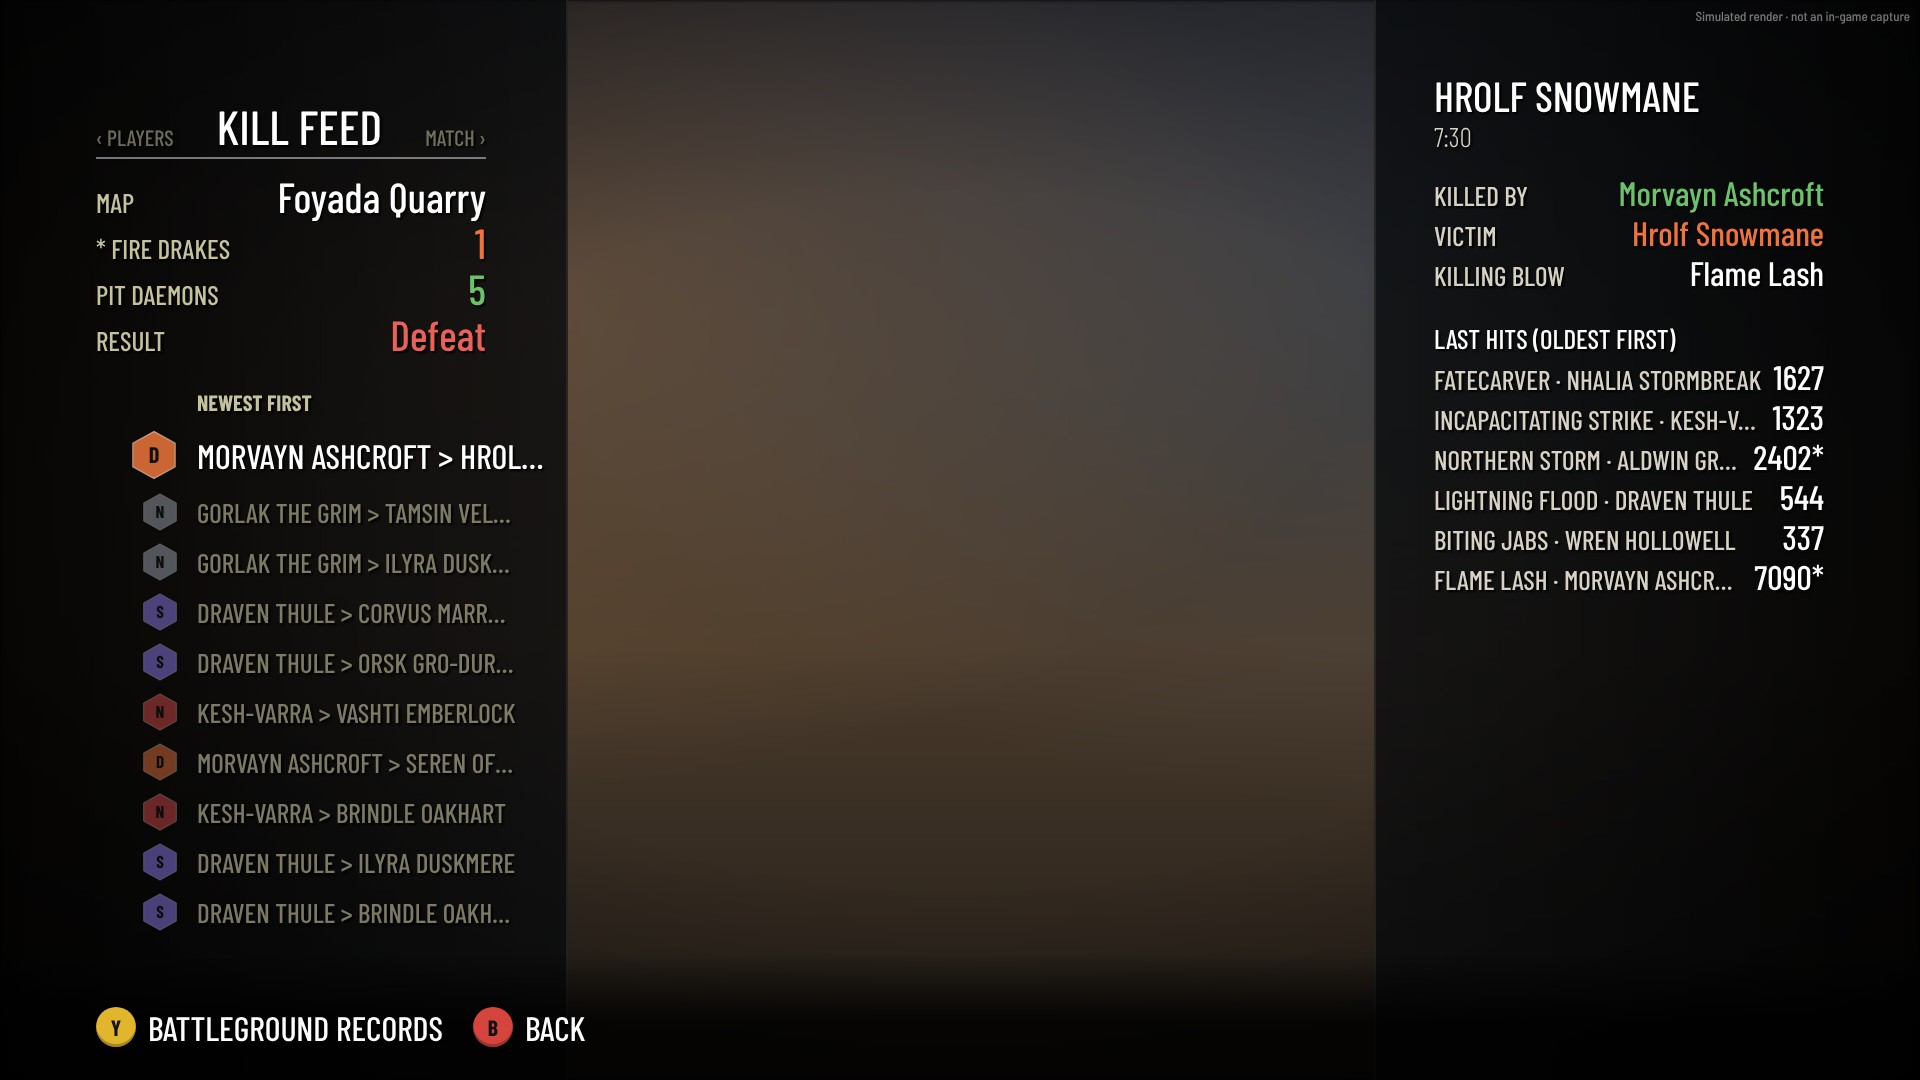
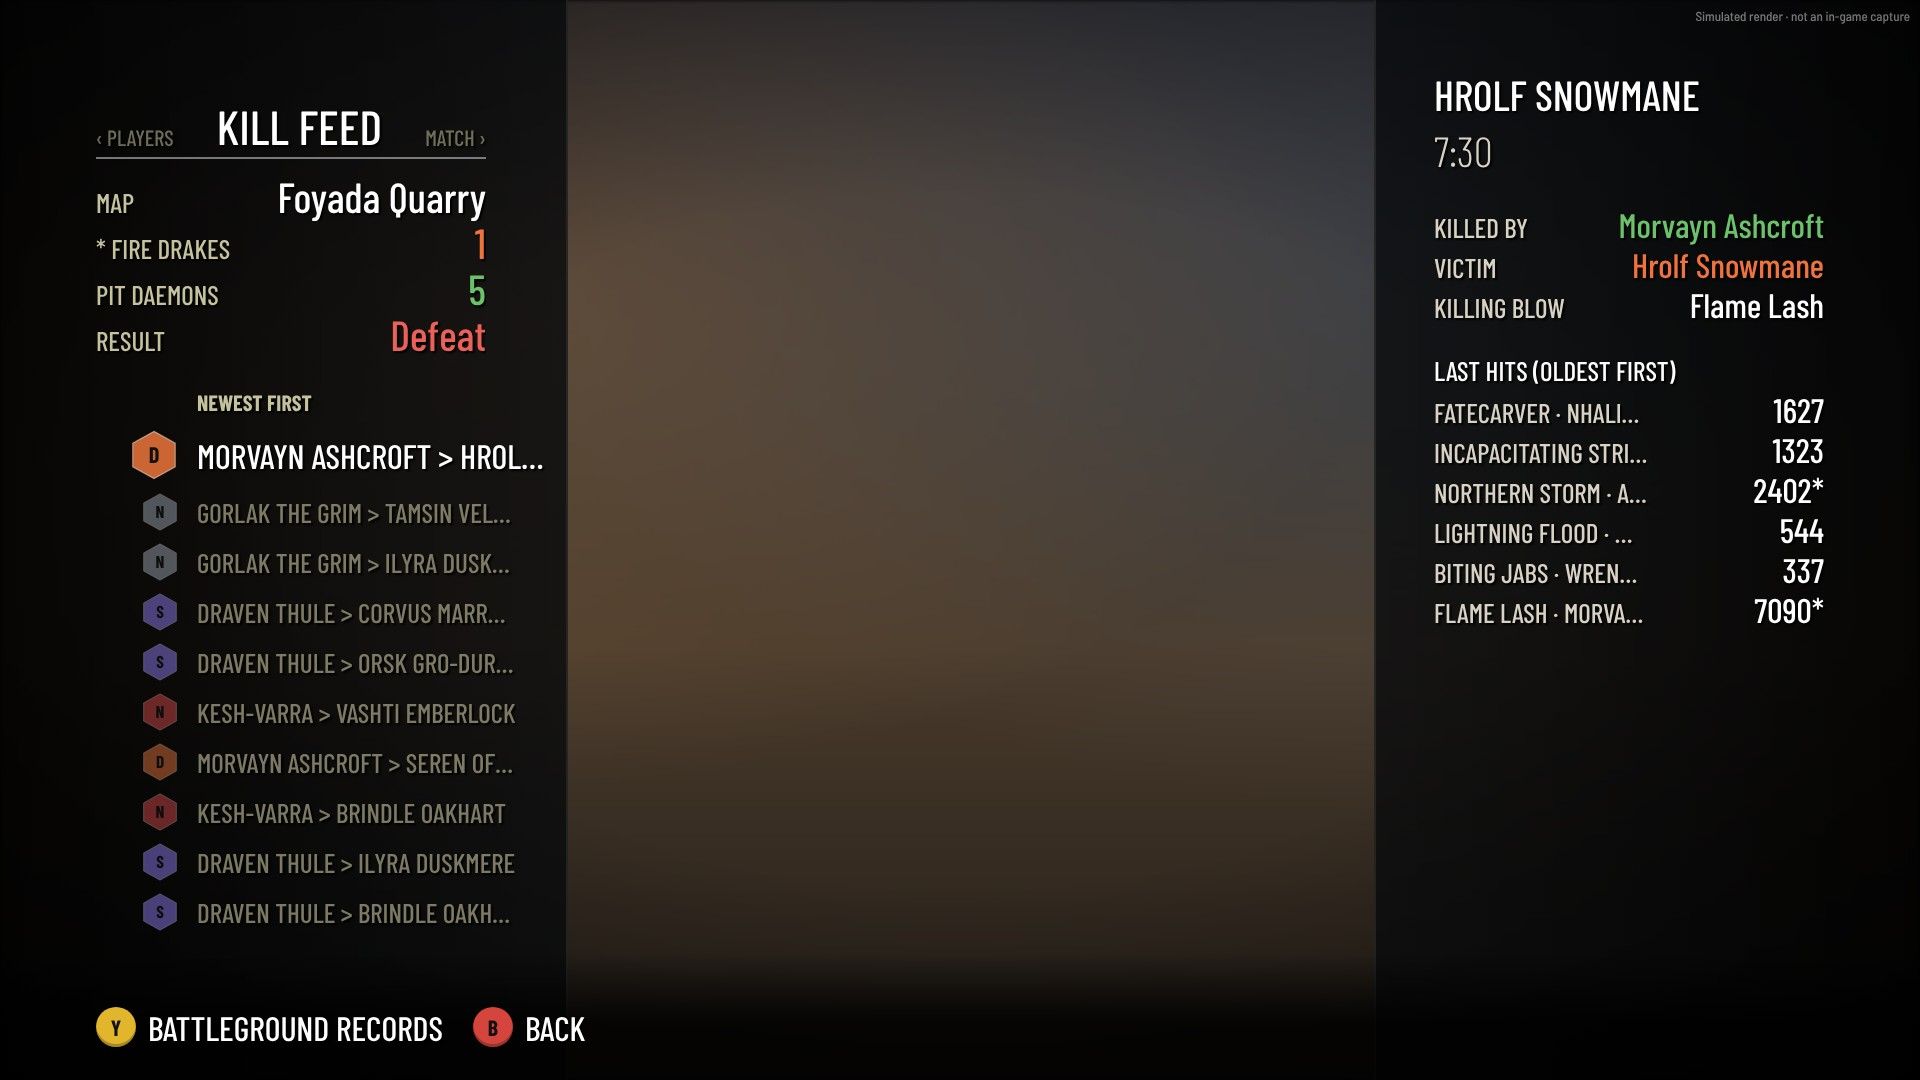
Keep console tooltips on screen
ESO sizes a tooltip line or stat/value pair to its text unless its style
gives it a width, so long rows ran past the right edge of the screen. All
tooltip rows now use the fullWidth style (lines wrap, values right-align and
wrap), long labels are split or shortened, and the renderer follows ESO's
sizing rules and warns about overflow.

Claude-Session: https://claude.ai/code/session_01DQVQLHZ3FZwfm2nCUdtVnP

Changed region(s): [[0.75, 0.1222, 0.9688, 0.5806], [0.8438, 0.1528, 0.9688, 0.3056], [0.8125, 0.0611, 0.8438, 0.0917]]

diff --git a/tools/render.js b/tools/render.js
@@ -313,30 +313,37 @@ function pageMain(screen, native, FONTS, FACES) {
       add(`<div style="position:absolute;left:197px;top:${yy}px;width:${sel ? 360 : 320}px;height:${hh}px;display:flex;align-items:center;font:500 ${size}px ${FC};color:${sel ? "#fff" : "rgba(197,194,158,.62)"};text-transform:uppercase;${shadow}"><span style="white-space:nowrap;overflow:hidden;text-overflow:ellipsis">${markup(r.e.text)}</span></div>`);
       yy += hh;
     }
-    // GAMEPAD_RIGHT_TOOLTIP in quadrant 4
-    let ty = 70;
-    const tx = 1434, tw = 390;
+    // GAMEPAD_RIGHT_TOOLTIP in quadrant 4, sized the way ZO_Tooltip sizes things:
+    //   * a line or stat / value pair WITH fullWidth (widthPercent 100) gets the tooltip's
+    //     width; lines wrap, and a pair's value gets width - stat - 5 and wraps
+    //   * WITHOUT a width, it is as wide as its text and never wraps or truncates, so it
+    //     can run past the tooltip (and the screen) edge, exactly like in game
+    //   * a value is anchored 5 px after its stat (ZO_TooltipStatValuePair:SetValue);
+    //     it is only right-aligned when its style says horizontalAlignment = RIGHT
+    const tx = 1434, tw = 390, ttop = 70, tbottom = 1080 - 140;
+    const has = (list, name) => (list || []).includes(name);
+    let tip = `<div data-sbr-tip style="position:absolute;left:${tx}px;top:${ttop}px;width:${tw}px;height:${tbottom - ttop}px;clip-path:inset(0 -2000px 0 -2000px);${shadow}">`;
     for (const sec of c.tooltip) {
+      tip += `<div style="margin-bottom:${sec.style === "bodyHeader" ? 18 : 30}px">`;
       for (const it of sec.items) {
-        if (ty > 1080 - 140) break;
+        const full = has(it.styles, "fullWidth");
         if (it.kind === "pair") {
           const vs = it.valueStyle === "statValuePairValueSmall" ? 34 : 42;
-          add(`<div style="position:absolute;left:${tx}px;top:${ty}px;width:${tw}px;height:${vs + 4}px;display:flex;align-items:baseline;justify-content:space-between;gap:10px;${shadow}">
-            <span style="font:500 27px ${FC};color:#d7d2c3;text-transform:uppercase;white-space:nowrap;overflow:hidden;text-overflow:ellipsis;min-width:0">${markup(it.stat)}</span>
-            <span style="font:500 ${vs}px ${FC};color:#fff;white-space:nowrap">${markup(it.value)}</span></div>`);
-          ty += vs + 6;
+          const right = has(it.valueStyles, "alignRight");
+          tip += `<div data-sbr-item style="display:flex;align-items:baseline;min-height:40px;${full ? "width:100%" : "width:max-content;white-space:nowrap"}">
+            <span style="font:500 27px ${FC};color:#d7d2c3;text-transform:uppercase;white-space:nowrap;flex:none">${markup(it.stat)}</span>
+            <span style="margin-left:5px;font:500 ${vs}px ${FC};color:#fff;line-height:1.15;${full ? `flex:1;min-width:0;text-align:${right ? "right" : "left"};overflow-wrap:anywhere` : "white-space:nowrap"}">${markup(it.value)}</span></div>`;
         } else {
           const st = it.style;
-          const css = st === "title" ? `font:500 42px ${FC};color:#fff;text-transform:uppercase`
-            : st === "bodyHeader" ? `font:500 27px ${FC};color:#fff;text-transform:uppercase`
-            : `font:300 ${sec.style === "bodyHeader" ? 27 : 34}px ${FC};color:#d7d2c3`;
-          const est = st === "title" ? 50 : st === "bodyHeader" ? 34 : (sec.style === "bodyHeader" ? 34 : 42);
-          add(`<div style="position:absolute;left:${tx}px;top:${ty}px;width:${tw}px;${css};line-height:1.2;${shadow}">${markup(it.text)}</div>`);
-          ty += est;
+          const css = st === "title" ? `font:500 42px ${FC};color:#fff;text-transform:uppercase;margin-bottom:8px`
+            : st === "bodyHeader" ? `font:500 27px ${FC};color:#fff;text-transform:uppercase;margin-bottom:4px`
+            : `font:300 42px ${FC};color:#d7d2c3`;
+          tip += `<div data-sbr-item style="${css};line-height:1.15;${full ? "width:100%" : "width:max-content;white-space:nowrap"}">${markup(it.text)}</div>`;
         }
       }
-      ty += sec.style === "bodyHeader" ? 18 : 30;
+      tip += `</div>`;
     }
+    add(tip + `</div>`);
   }
 
   // add-on controls (top levels in creation order)
@@ -382,6 +389,11 @@ function pageMain(screen, native, FONTS, FACES) {
     await page.evaluate(([s, n, F, FA, src]) => { eval(src); pageMain(s, n, F, FA); },
       [screen, data.native, FONTS, FACES, "var pageMain = " + pageMain.toString()]);
     const file = path.join(outDir, screen.id + ".jpg");
+    // anything in the tooltip that ends past the tooltip's right edge is a layout bug
+    const over = await page.evaluate(() => [...document.querySelectorAll("[data-sbr-tip] [data-sbr-item], [data-sbr-tip] [data-sbr-item] > span")]
+      .map(e => [e.getBoundingClientRect(), e.textContent.trim().replace(/\s+/g, " ")])
+      .filter(([r]) => r.right > 1434 + 390 + 1).map(([r, t]) => `${Math.round(r.right)}px: ${t}`));
+    for (const o of over) console.warn(`OVERFLOW ${screen.id}: ${o}`);
     await page.screenshot({ path: file, type: "jpeg", quality: 90 });
     console.log("wrote", file);
   }

diff --git a/README.md b/README.md
@@ -256,6 +256,11 @@ Rendering the real layout at ESO's real font sizes found layout bugs that are no
 - The details pane and the records dialog ran into the gamepad button bar.
 - The stat tiles drew their text badge over the icon.
 - The gamepad button labels were too long for ESO's strip.
+- Console tooltip rows ran off the right edge of the screen. ESO sizes a tooltip line or
+  stat / value pair to its text unless its style gives it a width, and never wraps or
+  truncates it. Every row now uses ESO's `fullWidth` style, so long text wraps inside the
+  tooltip, and long labels are shortened. The renderer applies the same sizing rules and
+  warns about any row that ends past the tooltip's edge.
 - The first custom console panels didn't look like ESO's console UI. They were replaced
   with ESO's own gamepad list screen, header and tooltip.
 
